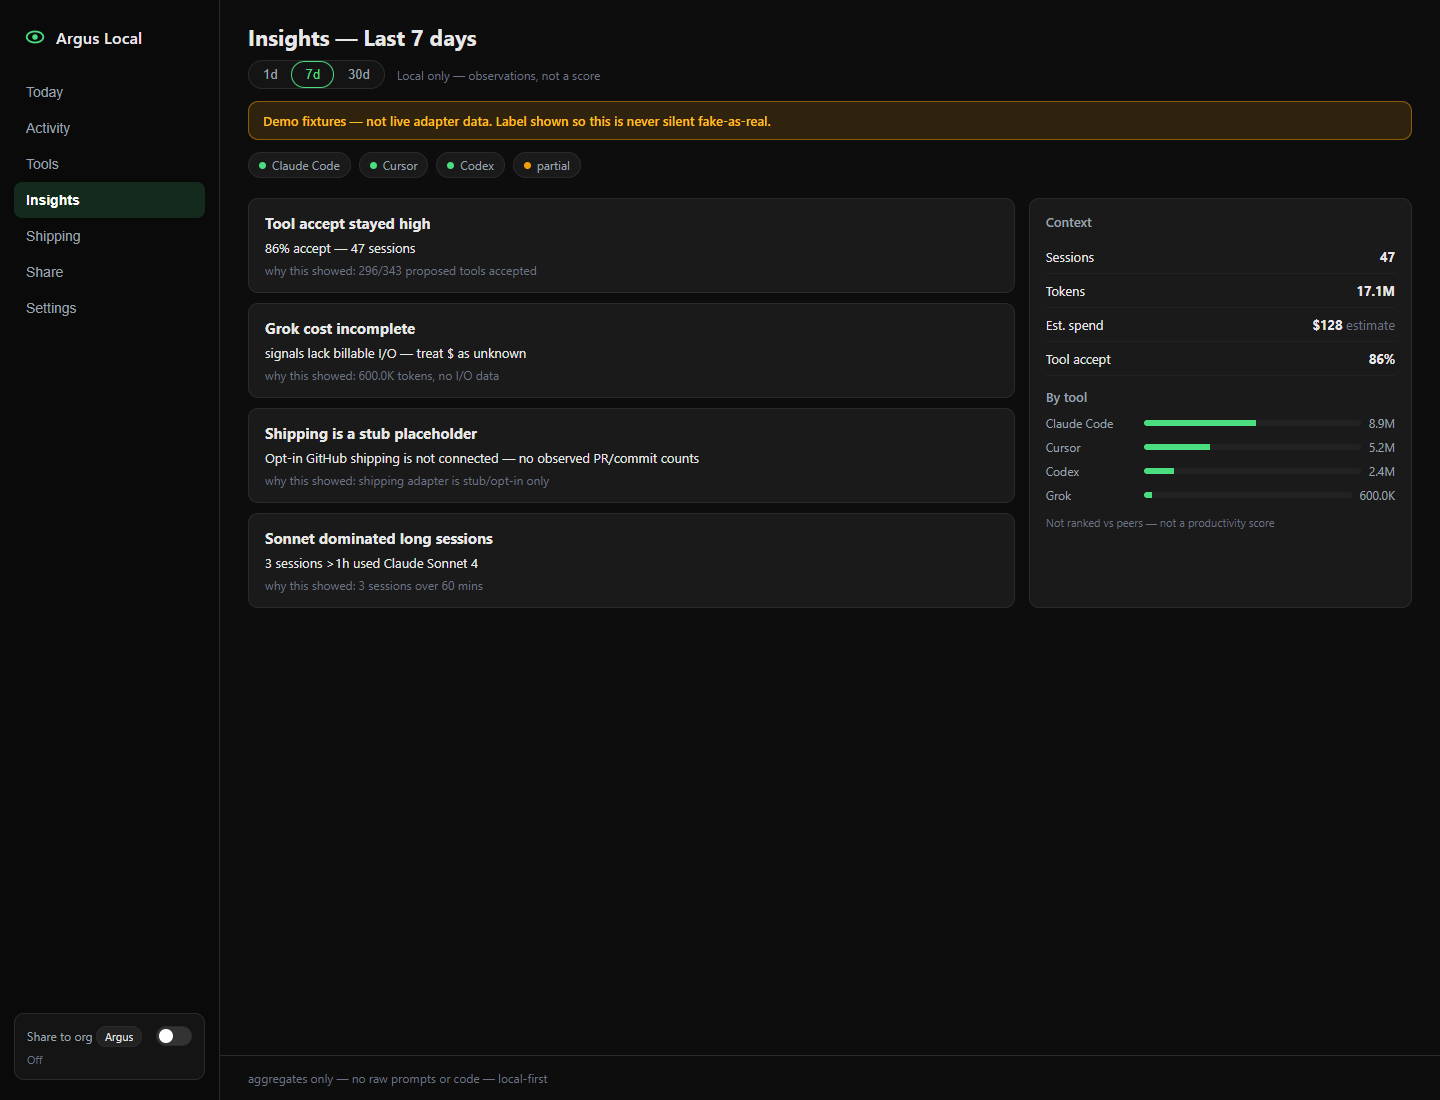
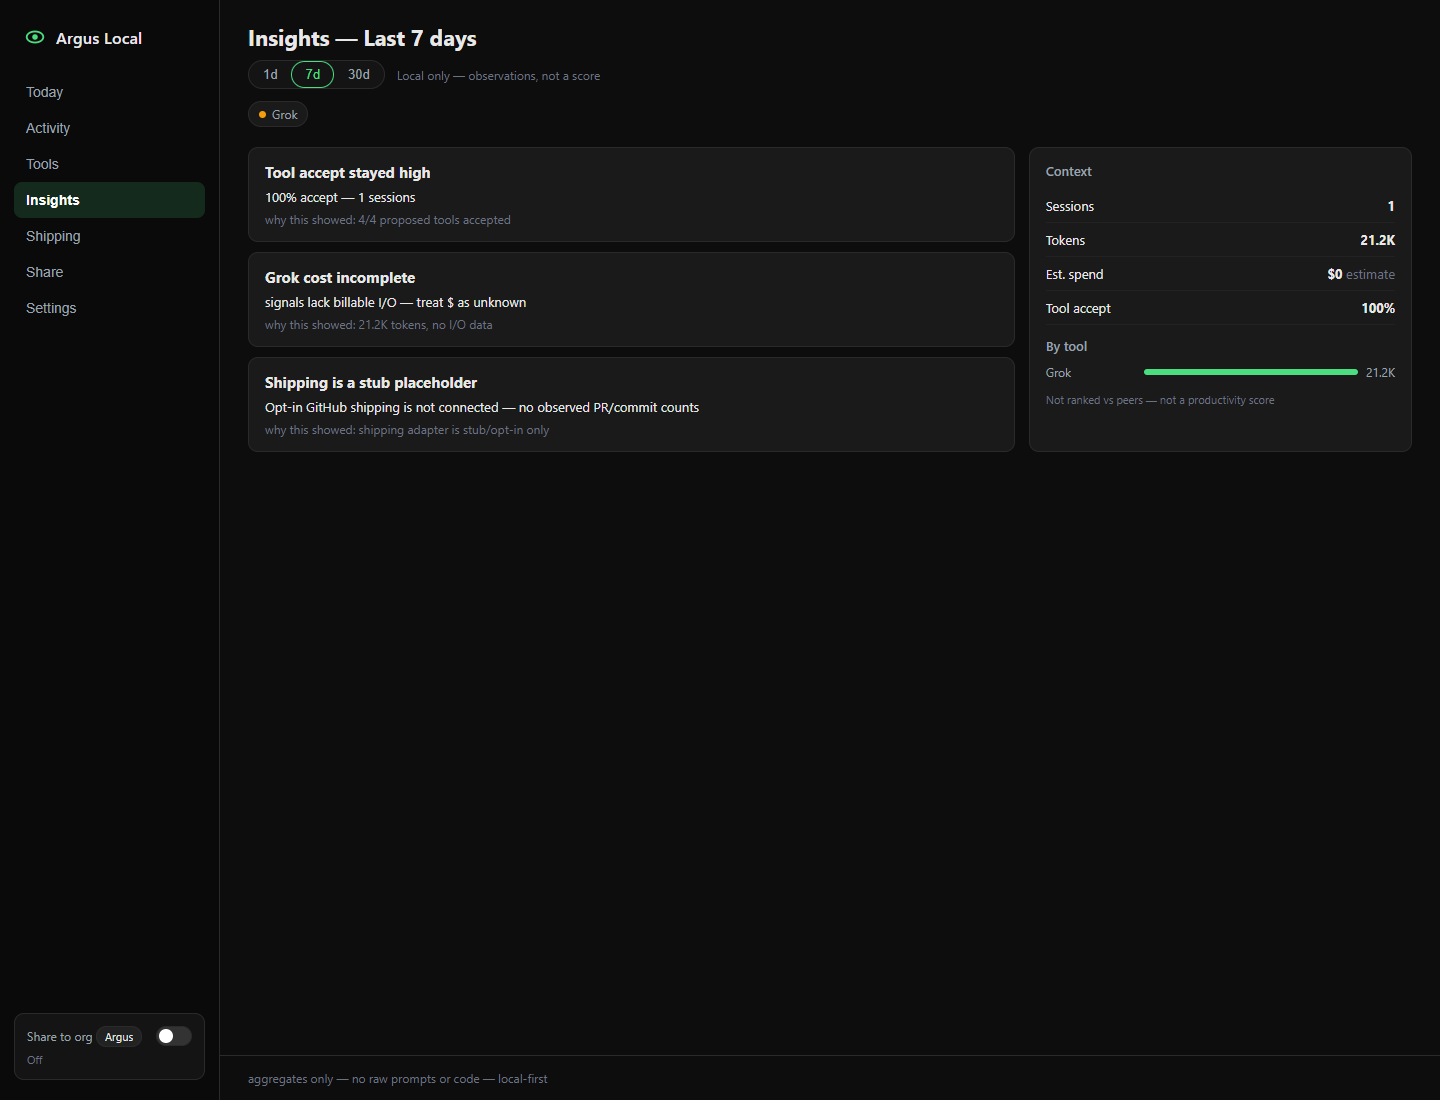
fix(ARG-30): real Grok adapter; hide absent tool stubs
Parse ~/.grok/sessions/**/signals.json (+ summary.json) into SessionRecord.
Only surface tools with discovered sessions (no Codex/stub pills/cards).
Grok cost incomplete/partial — no invented spend. Re-proof Today+Insights
without --fixtures (Grok-only on this machine). Hold publish.

diff --git a/static/app.html b/static/app.html
@@ -49,7 +49,7 @@
 .kpi .val{font-size:28px;font-weight:650;letter-spacing:-.02em}
 .kpi .sub{color:var(--dim);font-size:12px;margin-top:4px}
 .section-title{font-size:13px;color:var(--muted);margin:6px 0 10px;font-weight:600}
-.bytool{display:grid;grid-template-columns:repeat(4,minmax(0,1fr));gap:12px;margin-bottom:18px}
+.bytool{display:grid;grid-template-columns:repeat(auto-fit,minmax(160px,1fr));gap:12px;margin-bottom:18px}
 .toolcard{position:relative;overflow:hidden}
 .toolcard .name{display:flex;align-items:center;gap:8px;font-weight:600;margin-bottom:8px}
 .toolcard .tok{font-size:14px}
@@ -149,7 +149,8 @@ async function load(){
   render();
 }
 function statusHtml(st){
-  return (st||[]).map(s=>{
+  // Only real adapter names with discovered data — never invent Codex/etc stubs
+  return (st||[]).filter(s=>s && s.name && s.name!=='partial').map(s=>{
     const warn=s.partial||!s.ok;
     return `<span class="badge"><span class="dot ${warn?'warn':''}"></span>${esc(s.name)}</span>`;
   }).join('');

diff --git a/src/adapters/grok.rs b/src/adapters/grok.rs
@@ -1,0 +1,205 @@
+//! Grok local adapter — reads ~/.grok/sessions/**/signals.json (+ summary.json).
+//! Never reads auth.json or raw prompts into aggregates.
+use crate::models::{AdapterStatus, SessionRecord};
+use anyhow::Result;
+use chrono::{DateTime, Duration, Utc};
+use serde_json::Value;
+use std::fs;
+use std::path::{Path, PathBuf};
+use walkdir::WalkDir;
+
+pub fn grok_roots() -> Vec<PathBuf> {
+    let mut roots = Vec::new();
+    if let Some(home) = dirs::home_dir() {
+        roots.push(home.join(".grok"));
+    }
+    if let Ok(userprofile) = std::env::var("USERPROFILE") {
+        let p = PathBuf::from(userprofile).join(".grok");
+        if !roots.iter().any(|r| r == &p) {
+            roots.push(p);
+        }
+    }
+    roots
+}
+
+pub fn scan_grok() -> Result<(Vec<SessionRecord>, AdapterStatus)> {
+    let mut sessions = Vec::new();
+    let mut install_found = false;
+
+    for root in grok_roots() {
+        if !root.exists() {
+            continue;
+        }
+        install_found = true;
+        let sessions_dir = root.join("sessions");
+        if !sessions_dir.is_dir() {
+            continue;
+        }
+        for entry in WalkDir::new(&sessions_dir).into_iter().filter_map(|e| e.ok()) {
+            let path = entry.path();
+            if path.file_name().and_then(|s| s.to_str()) != Some("signals.json") {
+                continue;
+            }
+            match parse_session_dir(path) {
+                Ok(Some(rec)) => sessions.push(rec),
+                Ok(None) => {}
+                Err(e) => eprintln!("argus-local: grok skip {}: {e}", path.display()),
+            }
+        }
+    }
+
+    let n = sessions.len();
+    let status = if n > 0 {
+        AdapterStatus {
+            name: "Grok".into(),
+            ok: true,
+            partial: true, // no billable I/O / $ fields in signals
+            detail: format!("{n} sessions from ~/.grok (context tokens; cost incomplete)"),
+        }
+    } else if install_found {
+        AdapterStatus {
+            name: "Grok".into(),
+            ok: false,
+            partial: true,
+            detail: "~/.grok present but no session signals.json parsed".into(),
+        }
+    } else {
+        AdapterStatus {
+            name: "Grok".into(),
+            ok: false,
+            partial: true,
+            detail: "no ~/.grok install found".into(),
+        }
+    };
+
+    Ok((sessions, status))
+}
+
+fn parse_session_dir(signals_path: &Path) -> Result<Option<SessionRecord>> {
+    let raw = fs::read_to_string(signals_path)?;
+    let signals: Value = serde_json::from_str(&raw)?;
+
+    let context_tokens = signals
+        .get("contextTokensUsed")
+        .and_then(|v| v.as_i64())
+        .unwrap_or(0);
+    let tool_calls = signals
+        .get("toolCallCount")
+        .and_then(|v| v.as_i64())
+        .unwrap_or(0);
+    let duration_secs = signals
+        .get("sessionDurationSeconds")
+        .and_then(|v| v.as_i64())
+        .unwrap_or(0);
+
+    let mut model = signals
+        .get("primaryModelId")
+        .and_then(|v| v.as_str())
+        .or_else(|| {
+            signals
+                .get("modelsUsed")
+                .and_then(|v| v.as_array())
+                .and_then(|a| a.first())
+                .and_then(|v| v.as_str())
+        })
+        .unwrap_or("Grok")
+        .to_string();
+
+    let session_dir = signals_path.parent().unwrap_or(signals_path);
+    let session_id = session_dir
+        .file_name()
+        .and_then(|s| s.to_str())
+        .unwrap_or("unknown")
+        .to_string();
+
+    let summary_path = session_dir.join("summary.json");
+    let (started, ended, model_from_summary) = read_summary_times(&summary_path)?;
+    if !model_from_summary.is_empty() {
+        model = model_from_summary;
+    }
+
+    let (started_at, ended_at) = match (started, ended) {
+        (Some(s), Some(e)) => (s, e),
+        (Some(s), None) => {
+            let e = if duration_secs > 0 {
+                s + Duration::seconds(duration_secs)
+            } else {
+                s
+            };
+            (s, e)
+        }
+        (None, Some(e)) => {
+            let s = if duration_secs > 0 {
+                e - Duration::seconds(duration_secs)
+            } else {
+                e
+            };
+            (s, e)
+        }
+        (None, None) => {
+            let ended = fs::metadata(signals_path)
+                .and_then(|m| m.modified())
+                .ok()
+                .map(DateTime::<Utc>::from)
+                .unwrap_or_else(Utc::now);
+            let started = if duration_secs > 0 {
+                ended - Duration::seconds(duration_secs)
+            } else {
+                ended
+            };
+            (started, ended)
+        }
+    };
+
+    // Require at least some signal of a real session
+    if context_tokens <= 0 && tool_calls <= 0 && duration_secs <= 0 {
+        return Ok(None);
+    }
+
+    Ok(Some(SessionRecord {
+        id: format!("grok:{session_id}"),
+        tool: "Grok".into(),
+        model,
+        started_at,
+        ended_at,
+        // Context window usage only — not billable input/output split
+        input_tokens: context_tokens,
+        output_tokens: 0,
+        tokens_known: context_tokens > 0,
+        tools_proposed: tool_calls,
+        tools_accepted: tool_calls,
+        source: "grok".into(),
+        cost_complete: false,
+    }))
+}
+
+fn read_summary_times(
+    path: &Path,
+) -> Result<(Option<DateTime<Utc>>, Option<DateTime<Utc>>, String)> {
+    if !path.exists() {
+        return Ok((None, None, String::new()));
+    }
+    let raw = fs::read_to_string(path)?;
+    let v: Value = serde_json::from_str(&raw)?;
+    let started = v
+        .get("created_at")
+        .and_then(|x| x.as_str())
+        .and_then(parse_rfc3339);
+    let ended = v
+        .get("last_active_at")
+        .or_else(|| v.get("updated_at"))
+        .and_then(|x| x.as_str())
+        .and_then(parse_rfc3339);
+    let model = v
+        .get("current_model_id")
+        .and_then(|x| x.as_str())
+        .unwrap_or("")
+        .to_string();
+    Ok((started, ended, model))
+}
+
+fn parse_rfc3339(s: &str) -> Option<DateTime<Utc>> {
+    DateTime::parse_from_rfc3339(s)
+        .ok()
+        .map(|d| d.with_timezone(&Utc))
+}

diff --git a/src/adapters/mod.rs b/src/adapters/mod.rs
@@ -1,11 +1,11 @@
-//! Adapter discovery and ingestion.
+//! Adapter discovery and ingestion.
 mod claude;
 mod cursor;
-mod stubs;
+mod grok;
 
 pub use claude::scan_claude;
 pub use cursor::scan_cursor;
-pub use stubs::{stub_codex, stub_grok};
+pub use grok::scan_grok;
 
 use crate::models::{AdapterStatus, SessionRecord};
 use anyhow::Result;
@@ -16,49 +16,47 @@ pub struct ScanResult {
     pub used_fixtures: bool,
 }
 
+/// Only include adapter status badges for tools that produced real session rows.
+/// Absent tools (e.g. Codex with no local adapter/data) are omitted entirely.
 pub fn scan_all() -> Result<ScanResult> {
     let mut sessions = Vec::new();
     let mut statuses = Vec::new();
 
     match scan_claude() {
         Ok((rows, status)) => {
-            sessions.extend(rows);
-            statuses.push(status);
+            if !rows.is_empty() {
+                statuses.push(status);
+                sessions.extend(rows);
+            }
         }
-        Err(e) => statuses.push(AdapterStatus {
-            name: "Claude Code".into(),
-            ok: false,
-            partial: true,
-            detail: format!("scan error: {e}"),
-        }),
+        Err(e) => eprintln!("argus-local: claude scan error: {e}"),
     }
 
     match scan_cursor() {
         Ok((rows, status)) => {
-            sessions.extend(rows);
-            statuses.push(status);
+            if !rows.is_empty() {
+                statuses.push(status);
+                sessions.extend(rows);
+            }
         }
-        Err(e) => statuses.push(AdapterStatus {
-            name: "Cursor".into(),
-            ok: false,
-            partial: true,
-            detail: format!("scan error: {e}"),
-        }),
+        Err(e) => eprintln!("argus-local: cursor scan error: {e}"),
     }
 
-    // Stubs for Codex / Grok in v1
-    let (codex_rows, codex_status) = stub_codex();
-    sessions.extend(codex_rows);
-    statuses.push(codex_status);
+    match scan_grok() {
+        Ok((rows, status)) => {
+            if !rows.is_empty() {
+                statuses.push(status);
+                sessions.extend(rows);
+            }
+        }
+        Err(e) => eprintln!("argus-local: grok scan error: {e}"),
+    }
 
-    let (grok_rows, grok_status) = stub_grok();
-    sessions.extend(grok_rows);
-    statuses.push(grok_status);
+    // Codex and other absent tools: no stub rows / status pills.
 
-    let used_fixtures = false;
     Ok(ScanResult {
         sessions,
         statuses,
-        used_fixtures,
+        used_fixtures: false,
     })
 }

diff --git a/src/main.rs b/src/main.rs
@@ -1,4 +1,4 @@
-//! argus-local — one-process local HTML MVP (Claude Code + Cursor).
+//! argus-local - one-process local HTML MVP (Claude Code + Cursor + Grok).
 mod adapters;
 mod db;
 mod fixtures;
@@ -70,28 +70,18 @@ fn load_store(force_fixtures: bool) -> Result<SessionStore> {
         let scan = scan_all()?;
         let mut sessions = scan.sessions;
         let mut statuses = scan.statuses;
-        // If Claude+Cursor produced nothing useful, fall back to fixtures so UI always demos
+        // Real local adapters only (claude / cursor / grok). No stub Codex etc.
         let real = sessions
             .iter()
-            .filter(|s| s.source == "claude" || s.source == "cursor")
+            .filter(|s| s.source == "claude" || s.source == "cursor" || s.source == "grok")
             .count();
         if real == 0 {
-            eprintln!("argus-local: no Claude/Cursor sessions found — loading fixture demo data");
+            eprintln!("argus-local: no local adapter sessions found - loading fixture demo data");
             used_fixtures = true;
             sessions = fixtures::fixture_sessions();
             statuses = fixtures::fixture_statuses();
-        } else {
-            // Merge fixture Codex/Grok only if stubs empty — fixtures already cover demo shape when real=0
-            // Keep real sessions; ensure Grok partial badge present
-            if !statuses.iter().any(|s| s.name == "partial") {
-                statuses.push(AdapterStatus {
-                    name: "partial".into(),
-                    ok: false,
-                    partial: true,
-                    detail: "some adapters incomplete".into(),
-                });
-            }
         }
+        // Only tools with discovered sessions appear in statuses (see scan_all).
         (sessions, statuses)
     };
 

diff --git a/src/insights.rs b/src/insights.rs
@@ -60,7 +60,7 @@ pub fn build_insights(
         }
     }
 
-    // 3) Incomplete cost signals (Grok / stubs)
+    // 3) Incomplete cost signals (e.g. Grok context tokens only)
     for t in &context.by_tool {
         if t.cost_incomplete || t.tool == "Grok" {
             findings.push(Finding {
@@ -88,7 +88,7 @@ pub fn build_insights(
             findings.push(Finding {
                 title: "Grok cost incomplete".into(),
                 summary: "signals lack billable I/O \u{2014} treat $ as unknown".into(),
-                evidence: "why this showed: stub adapter, no billable I/O".into(),
+                evidence: "why this showed: local Grok signals lack billable I/O".into(),
             });
         }
     }

diff --git a/src/fixtures.rs b/src/fixtures.rs
@@ -124,10 +124,10 @@ pub fn fixture_statuses() -> Vec<AdapterStatus> {
             detail: "fixture demo data".into(),
         },
         AdapterStatus {
-            name: "partial".into(),
-            ok: false,
+            name: "Grok".into(),
+            ok: true,
             partial: true,
-            detail: "Grok cost incomplete".into(),
+            detail: "fixture demo data (cost incomplete)".into(),
         },
     ]
 }
